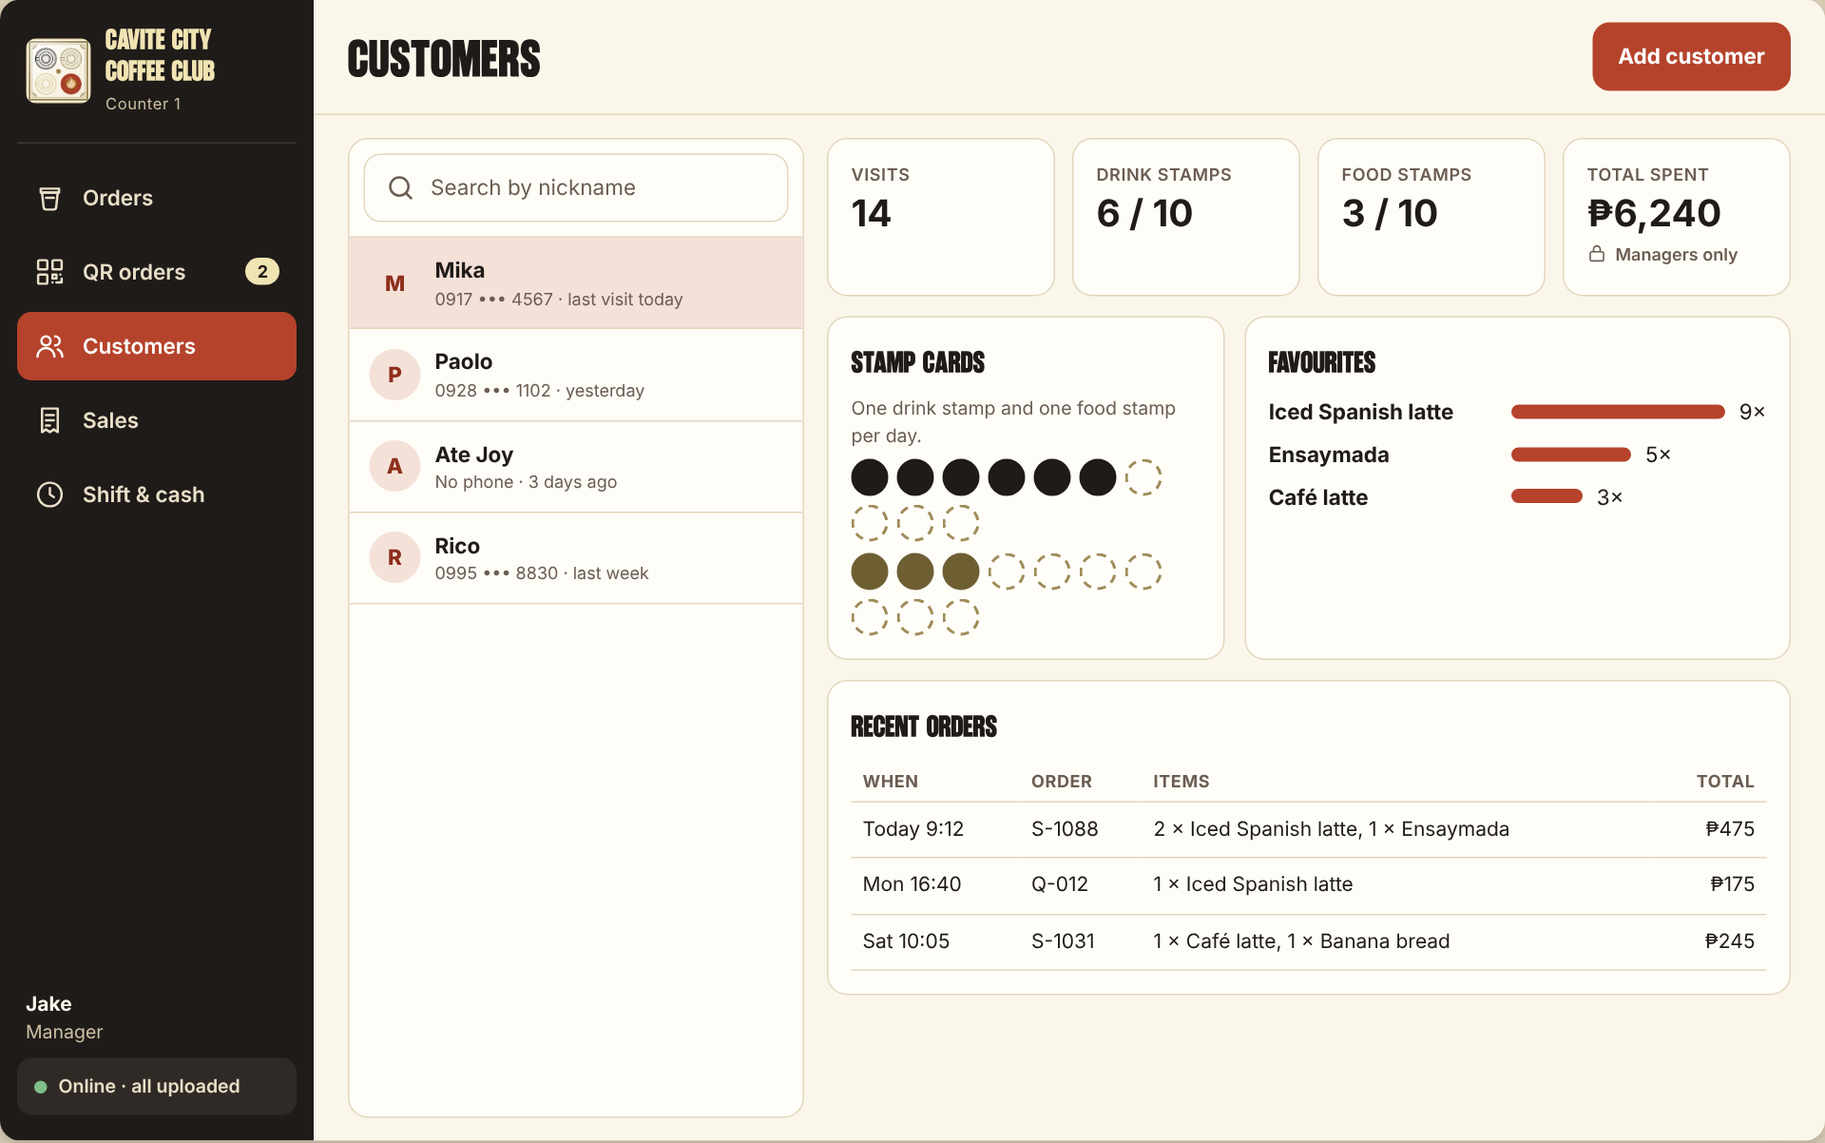
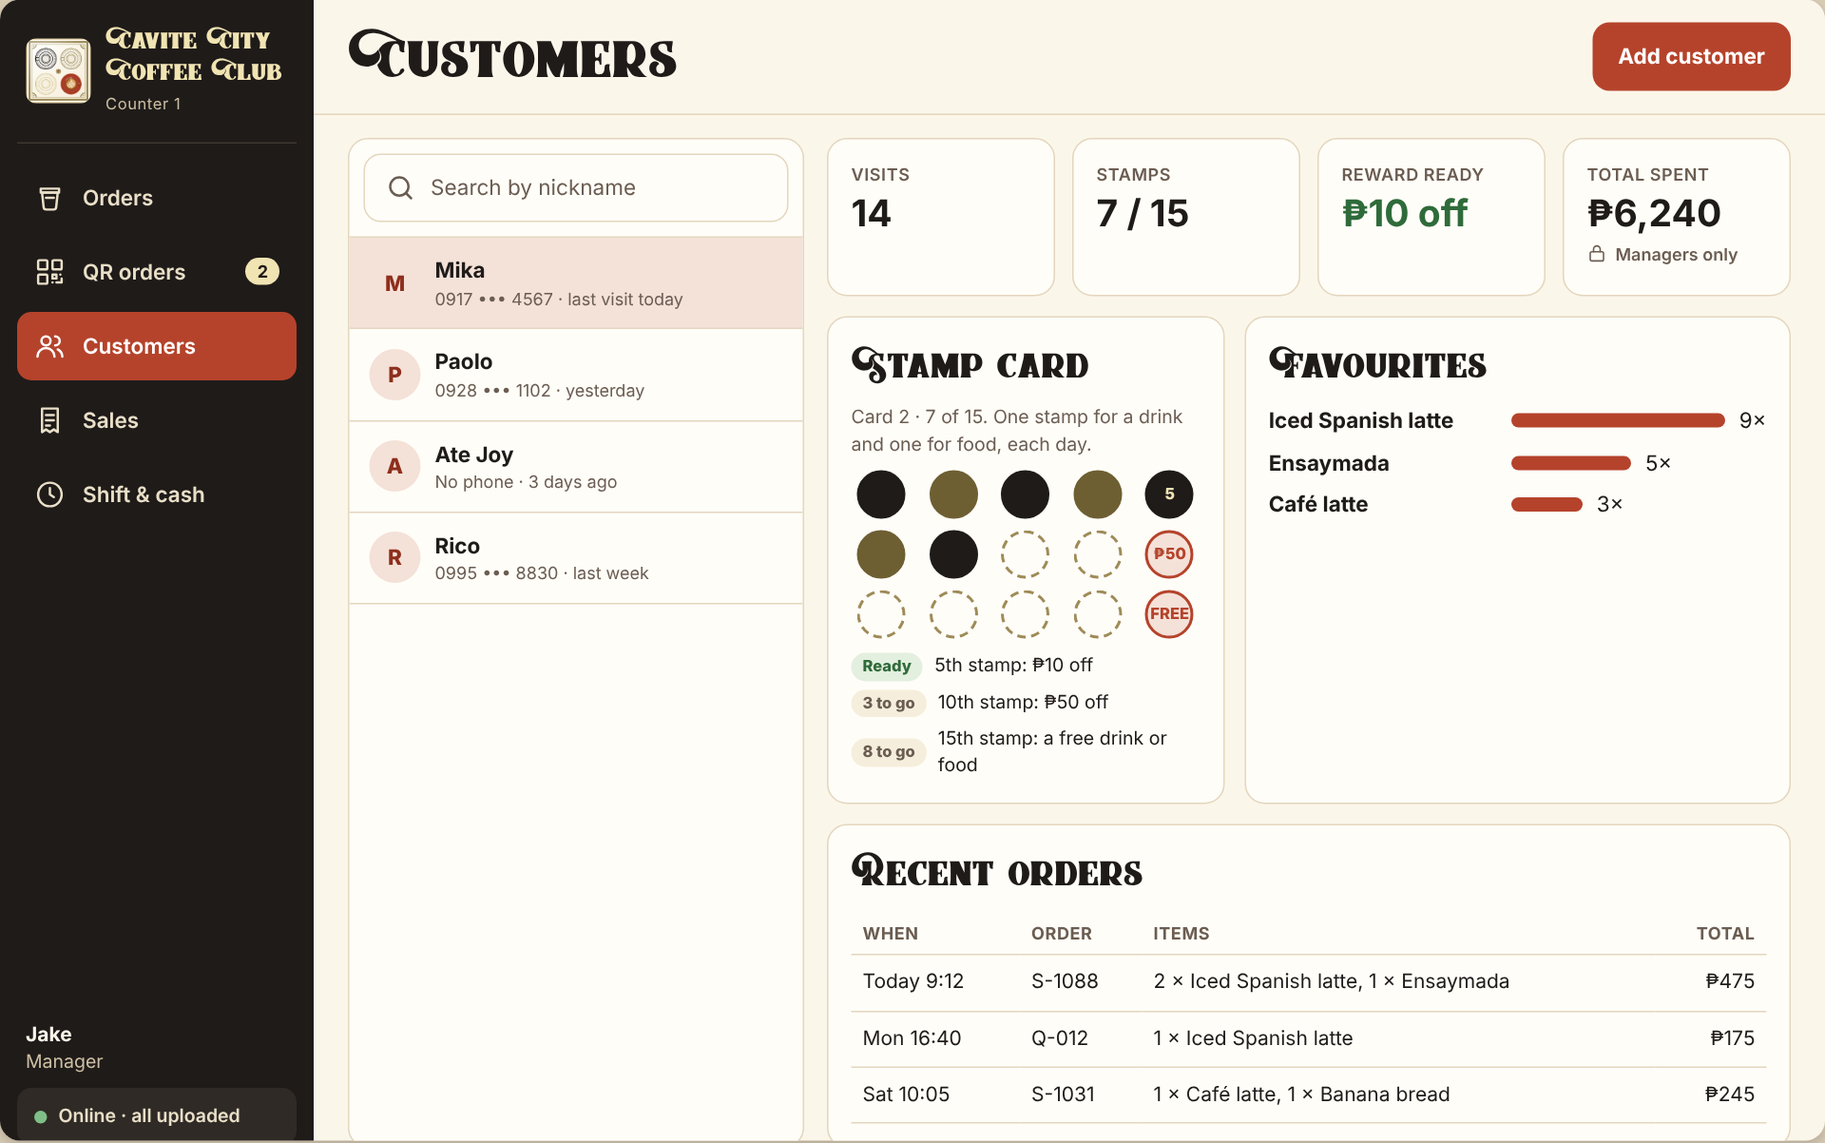
Brand: Braton Composer for titles (owner's licensed font), 15-stamp card in the mock
Claude-Session: https://claude.ai/code/session_01NVA2NxtgCDJzHY8g2MmBpt

diff --git a/docs/design/mock-1.2.html b/docs/design/mock-1.2.html
@@ -9,13 +9,14 @@
 *{box-sizing:border-box;margin:0;padding:0}
 body{font-family:var(--cc-font-body);color:var(--cc-ink);background:#d9cdb6;font-size:15px;line-height:1.45}
 .frame{width:1280px;height:800px;margin:24px auto;background:var(--cc-paper);display:grid;grid-template-columns:220px 1fr;overflow:hidden;border-radius:14px;box-shadow:var(--cc-shadow-lift)}
-.disp{font-family:var(--cc-font-display);text-transform:uppercase;letter-spacing:.5px;line-height:1}
+.disp{font-family:var(--cc-font-display);font-feature-settings:var(--cc-display-features);font-weight:400;line-height:1.05}
+.sech{font-family:var(--cc-font-body);font-weight:800;letter-spacing:.2px}
 svg.i{width:22px;height:22px;stroke:currentColor;fill:none;stroke-width:1.8;stroke-linecap:round;stroke-linejoin:round;flex:none}
 /* sidebar */
 .side{background:var(--cc-ink);color:var(--cc-paper);display:flex;flex-direction:column;padding:18px 12px}
 .brand{display:flex;gap:10px;align-items:center;padding:0 6px 18px;border-bottom:1px solid rgba(241,228,179,.15)}
 .brand img{width:46px;height:46px;border-radius:8px}
-.brand b{font-family:var(--cc-font-display);font-size:19px;line-height:.95;color:var(--cc-butter);text-transform:uppercase}
+.brand b{font-family:var(--cc-font-display);font-feature-settings:var(--cc-display-features);font-weight:400;font-size:16px;line-height:1.1;color:var(--cc-butter);white-space:nowrap}
 .brand small{display:block;font-size:11px;color:#cdbfa3;margin-top:4px;letter-spacing:.4px}
 .nav{margin-top:14px;display:flex;flex-direction:column;gap:4px}
 .nav a{display:flex;align-items:center;gap:12px;min-height:48px;padding:0 12px;border-radius:10px;color:#e9dfc8;text-decoration:none;font-weight:600;font-size:15px}
@@ -29,7 +30,7 @@ svg.i{width:22px;height:22px;stroke:currentColor;fill:none;stroke-width:1.8;stro
 /* main */
 .main{display:flex;flex-direction:column;min-width:0}
 .top{display:flex;align-items:center;gap:12px;padding:16px 24px;border-bottom:1px solid var(--cc-line);background:var(--cc-paper)}
-.top h1{font-size:34px;color:var(--cc-ink)}
+.top h1{font-size:36px;color:var(--cc-ink)}
 .chip{display:inline-flex;align-items:center;gap:6px;min-height:40px;padding:0 14px;border-radius:99px;border:1px solid var(--cc-line);background:var(--cc-card);font-weight:600;font-size:14px;color:var(--cc-ink-2)}
 .chip.on{background:var(--cc-ink);color:var(--cc-butter);border-color:var(--cc-ink)}
 .btn{display:inline-flex;align-items:center;justify-content:center;gap:8px;min-height:48px;padding:0 18px;border-radius:12px;border:0;font-weight:700;font-size:15px;font-family:inherit}
@@ -41,7 +42,7 @@ svg.i{width:22px;height:22px;stroke:currentColor;fill:none;stroke-width:1.8;stro
 .search{display:flex;align-items:center;gap:10px;min-height:48px;padding:0 14px;border-radius:12px;background:var(--cc-card);border:1px solid var(--cc-line);color:var(--cc-muted)}
 .chips{display:flex;gap:8px;flex-wrap:wrap}
 .sec{display:flex;align-items:baseline;gap:10px;margin:4px 0 8px}
-.sec h2{font-size:22px}
+.sec h2{font-size:19px}
 .sec span{color:var(--cc-muted);font-size:13px;font-weight:600}
 .grid{display:grid;grid-template-columns:repeat(5,1fr);gap:10px}
 .tile{min-height:92px;border-radius:12px;padding:10px 12px;display:flex;flex-direction:column;justify-content:space-between;box-shadow:var(--cc-shadow)}
@@ -75,7 +76,7 @@ svg.i{width:22px;height:22px;stroke:currentColor;fill:none;stroke-width:1.8;stro
 .tot{border-top:2px solid var(--cc-ink);padding-top:10px;display:grid;gap:4px;font-size:14px;color:var(--cc-ink-2)}
 .tot div{display:flex;justify-content:space-between}
 .tot .big{font-size:28px;color:var(--cc-ink);font-weight:800;margin-top:4px}
-.tot .big span:first-child{font-family:var(--cc-font-display);font-weight:400;font-size:26px}
+.tot .big span:first-child{font-family:var(--cc-font-display);font-feature-settings:var(--cc-display-features);font-weight:400;font-size:28px}
 .pay{margin-top:12px;display:grid;grid-template-columns:1fr 1fr;gap:8px}
 .pay .btn.primary{grid-column:1/-1;min-height:60px;font-size:18px}
 /* QR board + floor plan */
@@ -84,7 +85,7 @@ svg.i{width:22px;height:22px;stroke:currentColor;fill:none;stroke-width:1.8;stro
 .shape{position:absolute;display:grid;place-items:center;text-align:center;font-weight:700;font-size:13px}
 .tbl{background:var(--cc-paper);border:2px solid var(--cc-ink-2);color:var(--cc-ink)}
 .tbl.round{border-radius:50%}.tbl.sq{border-radius:10px}
-.tbl .lb{font-family:var(--cc-font-display);font-size:20px;display:block}
+.tbl .lb{font-size:20px;font-weight:800;display:block}
 .tbl small{font-size:11px;font-weight:700;color:var(--cc-muted)}
 .tbl.wait{background:var(--cc-terracotta);border-color:var(--cc-terracotta-deep);color:#fff}
 .tbl.wait small{color:#fff}
@@ -97,7 +98,7 @@ svg.i{width:22px;height:22px;stroke:currentColor;fill:none;stroke-width:1.8;stro
 .oc{background:var(--cc-card);border:1px solid var(--cc-line);border-radius:14px;padding:12px 14px;box-shadow:var(--cc-shadow)}
 .oc.new{border-left:6px solid var(--cc-terracotta)}
 .oc .h{display:flex;align-items:center;gap:8px}
-.oc .h b{font-family:var(--cc-font-display);font-size:22px}
+.oc .h b{font-size:18px;font-weight:800}
 .tag{font-size:12px;font-weight:700;border-radius:99px;padding:2px 9px;background:var(--cc-terracotta-tint);color:var(--cc-terracotta-deep)}
 .tag.ok{background:var(--cc-success-tint);color:var(--cc-success)}
 .oc ul{list-style:none;margin:8px 0;font-size:14px;color:var(--cc-ink-2)}
@@ -111,7 +112,7 @@ svg.i{width:22px;height:22px;stroke:currentColor;fill:none;stroke-width:1.8;stro
 .ci small{display:block;color:var(--cc-muted);font-size:12px}
 .cdet{display:flex;flex-direction:column;gap:14px}
 .card{background:var(--cc-card);border:1px solid var(--cc-line);border-radius:14px;padding:16px}
-.card h4{font-family:var(--cc-font-display);font-weight:400;font-size:20px;text-transform:uppercase;margin-bottom:10px}
+.card h4{font-family:var(--cc-font-display);font-feature-settings:var(--cc-display-features);font-weight:400;font-size:24px;margin-bottom:10px}
 .cards{display:grid;grid-template-columns:repeat(4,1fr);gap:12px}
 .kpi small{display:block;color:var(--cc-muted);font-size:12px;font-weight:600;text-transform:uppercase;letter-spacing:.4px}
 .kpi b{font-size:26px}
@@ -130,12 +131,12 @@ td{padding:9px 8px;border-bottom:1px solid var(--cc-line)}
 .phone{width:390px;height:844px;margin:24px auto;background:var(--cc-paper);border-radius:28px;overflow:hidden;box-shadow:var(--cc-shadow-lift);display:flex;flex-direction:column}
 .ph-head{background:var(--cc-terracotta);color:var(--cc-butter);padding:18px 16px 14px;display:flex;align-items:center;gap:12px}
 .ph-head img{width:52px;height:52px;border-radius:9px}
-.ph-head b{font-family:var(--cc-font-display);font-size:24px;line-height:.92;text-transform:uppercase}
+.ph-head b{font-family:var(--cc-font-display);font-feature-settings:var(--cc-display-features);font-weight:400;font-size:24px;line-height:1}
 .ph-head b span{display:block;color:var(--cc-ink)}
 .ph-head small{display:block;font-size:12px;color:#fff;margin-top:4px}
 .ph-body{padding:14px 16px;display:flex;flex-direction:column;gap:12px;flex:1;overflow:hidden}
 .member{background:var(--cc-card);border-radius:16px;border:1px solid var(--cc-line);overflow:hidden}
-.member .mh{background:var(--cc-ink);color:var(--cc-butter);padding:10px 14px;font-family:var(--cc-font-display);font-size:18px;text-transform:uppercase;display:flex;justify-content:space-between}
+.member .mh{background:var(--cc-ink);color:var(--cc-butter);padding:10px 14px;font-family:var(--cc-font-display);font-feature-settings:var(--cc-display-features);font-size:21px;display:flex;justify-content:space-between}
 .member .mb{padding:10px 14px;display:grid;gap:8px;font-size:13px;color:var(--cc-ink-2)}
 .member .mb .row{display:flex;align-items:center;gap:8px}
 .member .mb .row b{width:44px;color:var(--cc-ink)}
@@ -148,6 +149,16 @@ td{padding:9px 8px;border-bottom:1px solid var(--cc-line)}
 .add{margin-left:auto;width:44px;height:44px;border-radius:12px;background:var(--cc-terracotta);color:#fff;display:grid;place-items:center;font-size:24px;font-weight:700}
 .ph-cart{margin:0 16px 16px;min-height:56px;border-radius:14px;background:var(--cc-ink);color:var(--cc-butter);display:flex;align-items:center;justify-content:space-between;padding:0 18px;font-weight:700}
 .caption{max-width:1280px;margin:0 auto;font-weight:700;color:var(--cc-ink-2);padding:24px 8px 0}
+.card15{display:grid;grid-template-columns:repeat(5,1fr);gap:8px;justify-items:center}
+.s15{width:34px;height:34px;border-radius:50%;border:2px dashed var(--cc-olive);display:grid;place-items:center;font-size:11px;font-weight:800;color:var(--cc-olive-deep)}
+.s15.d{background:var(--cc-ink);border:2px solid var(--cc-ink);color:var(--cc-butter)}
+.s15.fd{background:var(--cc-olive-deep);border:2px solid var(--cc-olive-deep);color:var(--cc-paper)}
+.s15.m{border-color:var(--cc-terracotta);border-style:solid;color:var(--cc-terracotta);background:var(--cc-terracotta-tint)}
+.rw{display:flex;flex-direction:column;gap:6px;margin-top:10px;font-size:13px}
+.rw div{display:flex;align-items:center;gap:8px}
+.rtag{font-size:11px;font-weight:800;border-radius:99px;padding:2px 8px;white-space:nowrap}
+.rtag.ready{background:var(--cc-success-tint);color:var(--cc-success)}.rtag.lock{background:var(--cc-cream);color:var(--cc-muted)}
+.phone .s15{width:26px;height:26px;font-size:9px}
 </style>
 </head>
 <body>
@@ -187,7 +198,7 @@ td{padding:9px 8px;border-bottom:1px solid var(--cc-line)}
         <div class="search"><svg class="i"><use href="#i-search"/></svg>Search the menu</div>
         <div class="chips"><span class="chip on">All</span><span class="chip">Hot coffee</span><span class="chip">Iced coffee</span><span class="chip">Non-coffee</span><span class="chip">Pastries</span><span class="chip">Rice meals</span></div>
         <div>
-          <div class="sec"><h2 class="disp">Hot coffee</h2><span>5 items</span></div>
+          <div class="sec"><h2 class="sech">Hot coffee</h2><span>5 items</span></div>
           <div class="grid">
             <div class="tile t-cocoa"><span class="n">Americano</span><span class="p">₱120</span></div>
             <div class="tile t-cocoa"><span class="n">Café latte</span><span class="p">₱150</span></div>
@@ -197,7 +208,7 @@ td{padding:9px 8px;border-bottom:1px solid var(--cc-line)}
           </div>
         </div>
         <div>
-          <div class="sec"><h2 class="disp">Iced coffee</h2><span>5 items</span></div>
+          <div class="sec"><h2 class="sech">Iced coffee</h2><span>5 items</span></div>
           <div class="grid">
             <div class="tile t-terracotta"><span class="n">Iced latte</span><span class="p">₱160</span></div>
             <div class="tile t-terracotta"><span class="n">Iced Spanish latte</span><span class="p">₱175</span></div>
@@ -207,7 +218,7 @@ td{padding:9px 8px;border-bottom:1px solid var(--cc-line)}
           </div>
         </div>
         <div>
-          <div class="sec"><h2 class="disp">Non-coffee</h2><span>3 items</span></div>
+          <div class="sec"><h2 class="sech">Non-coffee</h2><span>3 items</span></div>
           <div class="grid">
             <div class="tile t-sage light"><span class="n">Matcha latte</span><span class="p">₱170</span></div>
             <div class="tile t-sage light"><span class="n">Chocolate</span><span class="p">₱150</span></div>
@@ -215,7 +226,7 @@ td{padding:9px 8px;border-bottom:1px solid var(--cc-line)}
           </div>
         </div>
         <div>
-          <div class="sec"><h2 class="disp">Pastries</h2><span>4 items</span></div>
+          <div class="sec"><h2 class="sech">Pastries</h2><span>4 items</span></div>
           <div class="grid">
             <div class="tile t-butter light"><span class="n">Ensaymada</span><span class="p">₱85</span></div>
             <div class="tile t-butter light"><span class="n">Banana bread</span><span class="p">₱95</span></div>
@@ -226,7 +237,7 @@ td{padding:9px 8px;border-bottom:1px solid var(--cc-line)}
       </div>
       <aside class="cart">
         <h3 class="disp">Current order</h3>
-        <div class="cust"><div class="av">M</div><div><b>Mika</b><small>0917 ••• 4567 · 14 visits</small></div><div class="stamps"><span class="st">Drink 6</span><span class="st f">Food 3</span></div></div>
+        <div class="cust"><div class="av">M</div><div><b>Mika</b><small>0917 ••• 4567 · 14 visits</small></div><div class="stamps"><span class="st">7 / 15</span><span class="st f" style="background:var(--cc-success);">₱10 off ready</span></div></div>
         <div class="lines">
           <div class="ln"><span class="q">2</span><div><b>Iced Spanish latte</b><small>Large · Oat milk</small></div><b>₱390</b></div>
           <div class="ln"><span class="q">1</span><div><b>Ensaymada</b><small>Warm</small></div><b>₱85</b></div>
@@ -281,7 +292,7 @@ td{padding:9px 8px;border-bottom:1px solid var(--cc-line)}
   </main>
 </section>
 
-<div class="caption">3 · Counter: Customers (managers also see money; cashiers don't)</div>
+<div class="caption">3 · Counter: Customers (managers also see money; cashiers don't). One 15-stamp card: ₱10 off at 5, ₱50 off at 10, free drink or food at 15</div>
 <section class="frame" id="mock-customers">
   <aside class="side">
     <div class="brand"><img src="../../cccc/shared/brand/tile-icon-192.webp" alt=""><div><b>Cavite City<br>Coffee Club</b><small>Counter 1</small></div></div>
@@ -307,15 +318,15 @@ td{padding:9px 8px;border-bottom:1px solid var(--cc-line)}
       <div class="cdet">
         <div class="cards">
           <div class="card kpi"><small>Visits</small><b>14</b></div>
-          <div class="card kpi"><small>Drink stamps</small><b>6 / 10</b></div>
-          <div class="card kpi"><small>Food stamps</small><b>3 / 10</b></div>
+          <div class="card kpi"><small>Stamps</small><b>7 / 15</b></div>
+          <div class="card kpi"><small>Reward ready</small><b style="color:var(--cc-success)">₱10 off</b></div>
           <div class="card kpi"><small>Total spent</small><b>₱6,240</b><div class="lock"><svg class="i" style="width:14px;height:14px"><use href="#i-lock"/></svg>Managers only</div></div>
         </div>
         <div style="display:grid;grid-template-columns:1fr 1fr;gap:14px">
-          <div class="card"><h4>Stamp cards</h4>
-            <div style="font-size:13px;color:var(--cc-muted);margin-bottom:6px">One drink stamp and one food stamp per day.</div>
-            <div class="stampcard"><span class="cup fill"></span><span class="cup fill"></span><span class="cup fill"></span><span class="cup fill"></span><span class="cup fill"></span><span class="cup fill"></span><span class="cup"></span><span class="cup"></span><span class="cup"></span><span class="cup"></span></div>
-            <div class="stampcard" style="margin-top:8px"><span class="cup ff"></span><span class="cup ff"></span><span class="cup ff"></span><span class="cup"></span><span class="cup"></span><span class="cup"></span><span class="cup"></span><span class="cup"></span><span class="cup"></span><span class="cup"></span></div>
+          <div class="card"><h4>Stamp card</h4>
+            <div style="font-size:13px;color:var(--cc-muted);margin-bottom:8px">Card 2 · 7 of 15. One stamp for a drink and one for food, each day.</div>
+            <div class="card15"><span class="s15 d"></span><span class="s15 fd"></span><span class="s15 d"></span><span class="s15 fd"></span><span class="s15 d">5</span><span class="s15 fd"></span><span class="s15 d"></span><span class="s15"></span><span class="s15"></span><span class="s15 m">₱50</span><span class="s15"></span><span class="s15"></span><span class="s15"></span><span class="s15"></span><span class="s15 m">FREE</span></div>
+            <div class="rw"><div><span class="rtag ready">Ready</span>5th stamp: ₱10 off</div><div><span class="rtag lock">3 to go</span>10th stamp: ₱50 off</div><div><span class="rtag lock">8 to go</span>15th stamp: a free drink or food</div></div>
           </div>
           <div class="card"><h4>Favourites</h4>
             <div class="fav">
@@ -342,12 +353,9 @@ td{padding:9px 8px;border-bottom:1px solid var(--cc-line)}
   <div class="ph-head"><img src="../../cccc/shared/brand/tile-icon-192.webp" alt=""><div><b>Cavite City<span>Coffee Club</span></b><small>Table T2 · Dine in</small></div></div>
   <div class="ph-body">
     <div style="font-size:15px"><b>Welcome back, Mika!</b></div>
-    <div class="member"><div class="mh"><span>Member card</span><span>Bienvenido!</span></div>
-      <div class="mb">
-        <div class="row"><b>Drinks</b><span class="cup s fill"></span><span class="cup s fill"></span><span class="cup s fill"></span><span class="cup s fill"></span><span class="cup s fill"></span><span class="cup s fill"></span><span class="cup s"></span><span class="cup s"></span><span class="cup s"></span><span class="cup s"></span></div>
-        <div class="row"><b>Food</b><span class="cup s ff"></span><span class="cup s ff"></span><span class="cup s ff"></span><span class="cup s"></span><span class="cup s"></span><span class="cup s"></span><span class="cup s"></span><span class="cup s"></span><span class="cup s"></span><span class="cup s"></span></div>
-        <div>One stamp per day for a drink, one for food.</div>
-      </div></div>
+    <div class="member"><div class="mh"><span>Stamp card</span><span>Bienvenido!</span></div>
+      <div class="mb"><div class="card15"><span class="s15 d"></span><span class="s15 fd"></span><span class="s15 d"></span><span class="s15 fd"></span><span class="s15 d">5</span><span class="s15 fd"></span><span class="s15 d"></span><span class="s15"></span><span class="s15"></span><span class="s15 m">₱50</span><span class="s15"></span><span class="s15"></span><span class="s15"></span><span class="s15"></span><span class="s15 m">FREE</span></div>
+        <div>7 of 15 · your ₱10-off reward is ready. Ask at the counter.</div></div></div>
     <div class="ph-cats"><span class="chip on">Hot coffee</span><span class="chip">Iced coffee</span><span class="chip">Non-coffee</span></div>
     <h2 class="disp" style="font-size:22px">Hot coffee</h2>
     <div class="item"><div class="thumb" style="background:var(--tile-cocoa-bg)"></div><div><b>Americano</b><small>Double shot, hot water</small><div style="font-weight:700">₱120</div></div><span class="add">+</span></div>

diff --git a/cccc/shared/brand/tokens.css b/cccc/shared/brand/tokens.css
@@ -4,12 +4,13 @@
    pair below passes 4.5:1 contrast (checked). Olive-gold (--cc-olive) is 3.1:1 on paper:
    borders and decoration only, never text. */
 
-/* Brunson: headings only (logo font). Licence: see docs/design/README.md.
+/* Braton Composer (Alit Design, bought by the owner): page titles and brand moments only.
+   Its automatic swash capitals are switched off (see --cc-display-features) so words stay readable.
    No ₱ sign in this font: the browser falls back to the body font for it. */
 @font-face{
-  font-family:'Brunson';
-  src:url('brunson.woff') format('woff');
-  font-weight:400 900; font-style:normal; font-display:swap;
+  font-family:'Braton Composer';
+  src:url('braton-composer.woff') format('woff');
+  font-weight:400; font-style:normal; font-display:swap;
 }
 
 :root{
@@ -36,7 +37,8 @@
   --cc-info:#2E5A6B;    --cc-info-tint:#DDEBEF;
 
   /* Type */
-  --cc-font-display:'Brunson','Arial Narrow',Impact,sans-serif;
+  --cc-font-display:'Braton Composer',Georgia,'Times New Roman',serif;
+  --cc-display-features:"calt" 0,"swsh" 0,"salt" 0,"dlig" 0,"liga" 0;
   --cc-font-body:system-ui,-apple-system,'Segoe UI',Roboto,'Helvetica Neue',Arial,sans-serif;
   --cc-font-num:ui-monospace,'Cascadia Mono','Segoe UI Mono',Menlo,monospace;
 

diff --git a/docs/design/README.md b/docs/design/README.md
@@ -3,10 +3,8 @@
 - **Colours and sizes:** `cccc/shared/brand/tokens.css`. Every app loads it first, and screens use its variables, never raw colour codes.
 - **Mock:** `mock-1.2.html` (screenshots in `shots/`). It shows four screens: counter Orders, the QR orders floor plan, counter Customers, and the customer's phone.
 - **Logo:** web-size images in `cccc/shared/brand/`, made from the 2026-10-29 logo prototype. The prototype's SVGs are not used, because they contain the font files.
-- **Brunson font:** used for headings only, through one `@font-face` in `tokens.css`.
-  - The font says "© The Branded Quotes 2025. All Rights Reserved" (thebrandedquotes.sellfy.store), and no licence file came with it. The owner must confirm the purchase allows website use.
-  - To stop using it, delete `brunson.woff` and its `@font-face` block. Headings then fall back to Arial Narrow / Impact.
-  - It has no ₱ sign; the body font fills that in.
+- **Braton Composer** (Alit Design, bought by the owner) is used for page titles and brand moments only, through one `@font-face` in `tokens.css`. Its automatic swash capitals are switched off (`--cc-display-features`) so words stay readable. It has no ₱ sign; the body font fills that in.
+- **Brunson** is not used in the apps (no licence file; "All Rights Reserved"). It appears only inside the logo artwork itself.
 - **Body text:** each device's own system font (Segoe UI, Roboto, San Francisco). Nothing to download, so it's fast on mobile data and works offline.
 - **Rules:**
   - every text colour pair is at least 4.5:1;
